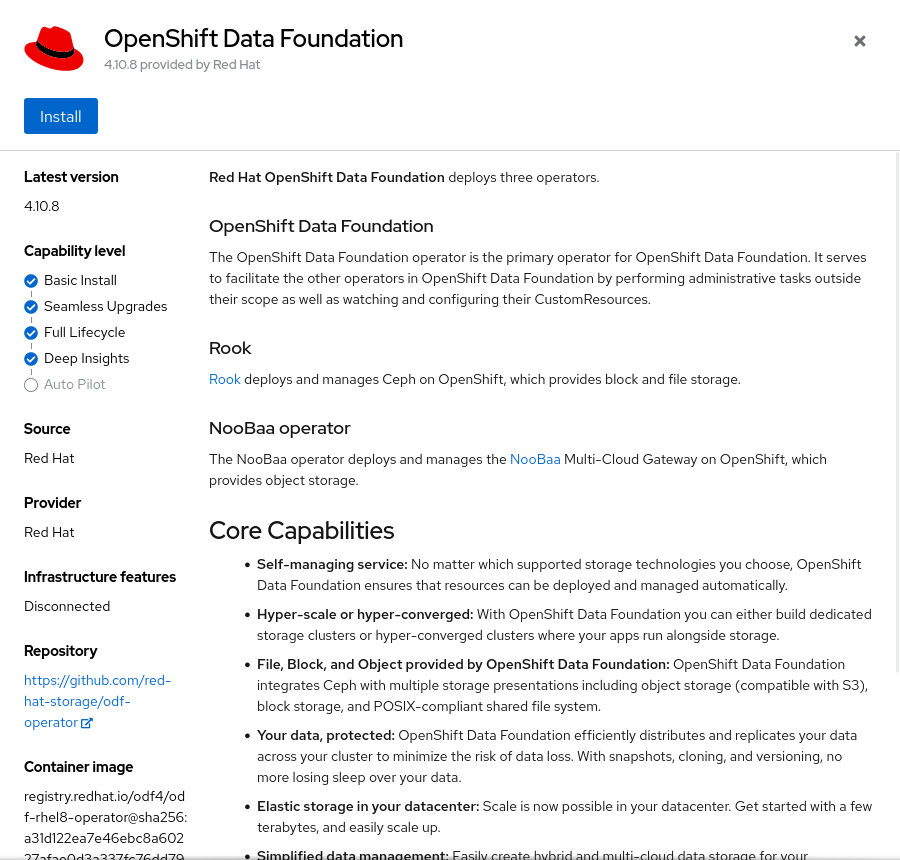
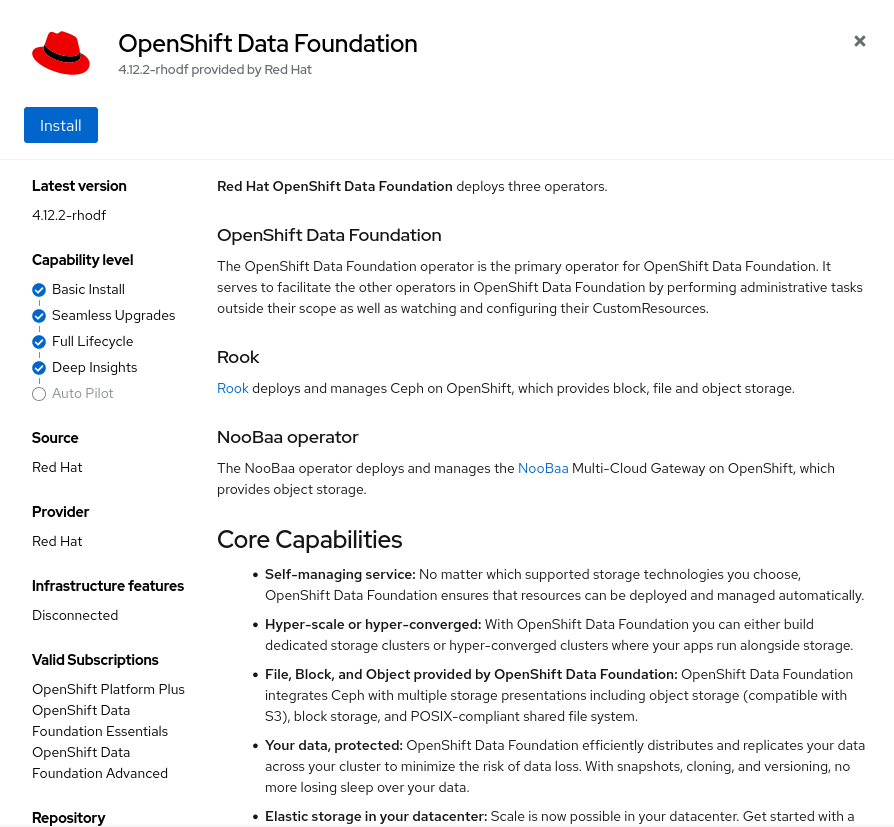
Deploying to gh-pages from @ aolle/quay-workshop@e2a169f44ddc0d857af2f2572e4b28b3663beb66 🚀

Changed region(s): [[0.0, 0.0302, 1.0, 1.0], [0.9362, 0.0302, 0.9664, 0.0605]]

diff --git a/setup.html b/setup.html
@@ -265,7 +265,7 @@
 <div class="ulist">
 <ul>
 <li>
-<p>Red Hat OpenShift <code>4.11</code></p>
+<p>Red Hat OpenShift <code>4.12</code></p>
 </li>
 <li>
 <p>Red Hat Quay <code>3.8</code></p>
@@ -376,7 +376,7 @@
 <div class="ulist">
 <ul>
 <li>
-<p>On the Install Operator page, select <code>stable-4.10</code> from the list of available Update Channel options, and then choose A specific namespace on the cluster. Leave the default value of Installed Namespace as openshift-storage, and set the Update Approval to Automatic. Also, make sure to set <code>Enable</code> the Console Plugin.</p>
+<p>On the Install Operator page, select <code>stable-4.12</code> from the list of available Update Channel options, and then choose A specific namespace on the cluster. Leave the default value of Installed Namespace as openshift-storage, and set the Update Approval to Automatic. Also, make sure to set <code>Enable</code> the Console Plugin.</p>
 </li>
 </ul>
 </div>
